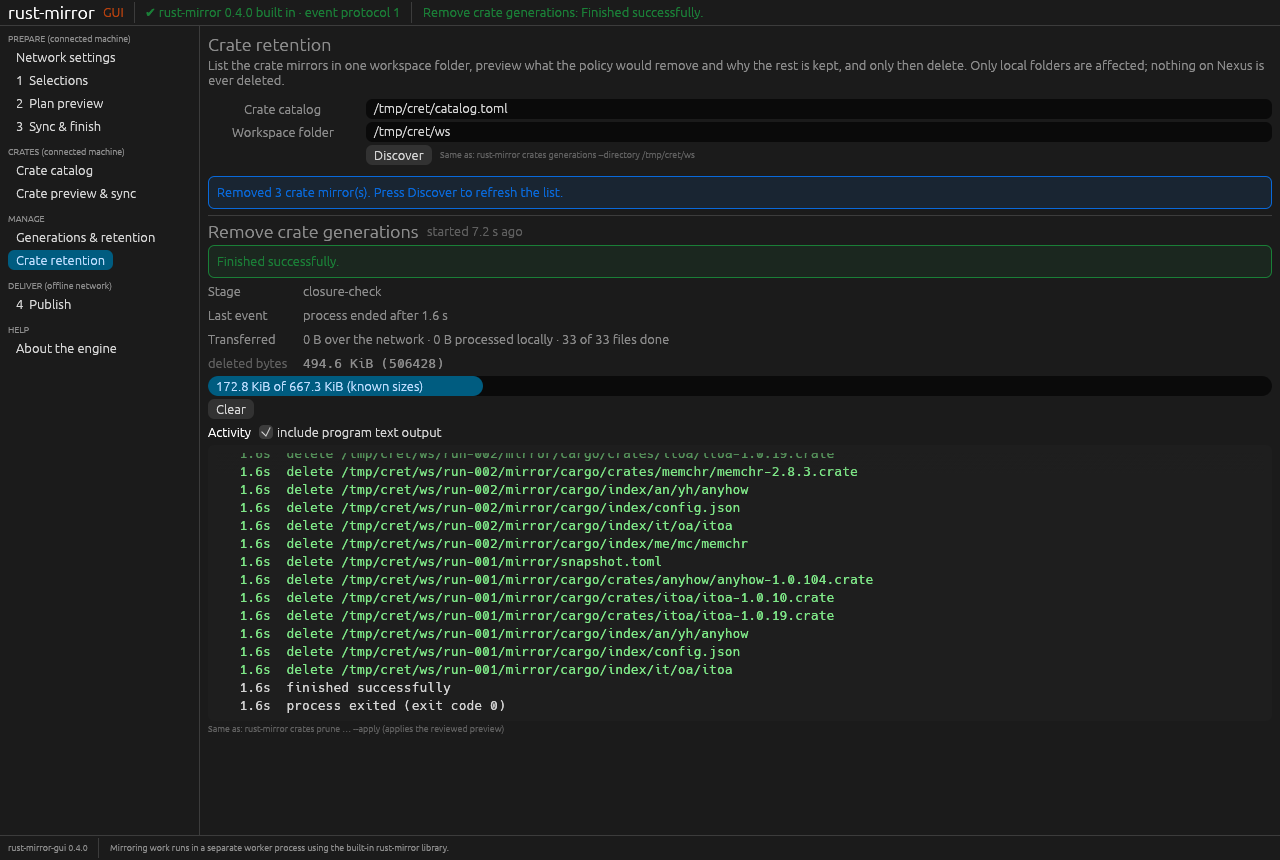
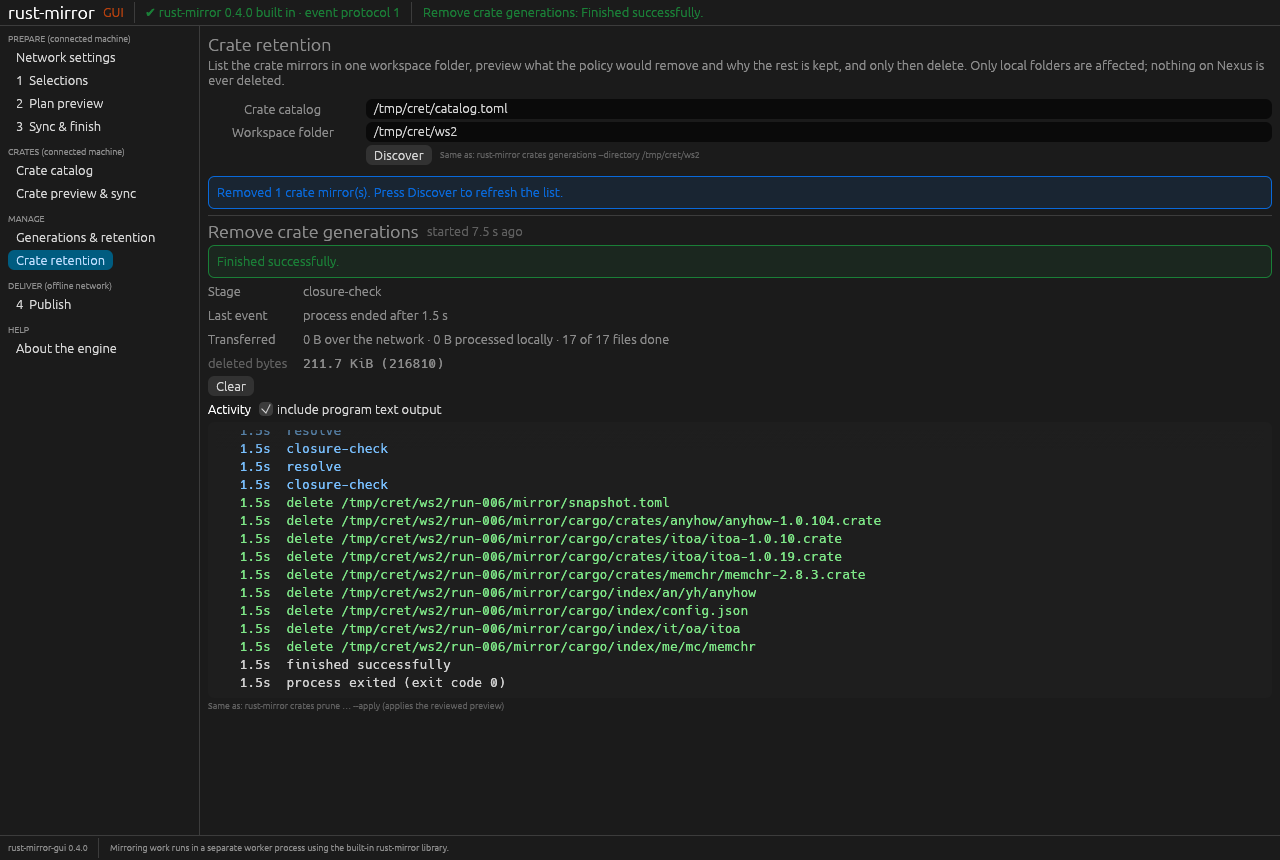
Crate retention: drop next-previous and pins that are not in the folder just listed; retake the delete screenshot

Changed region(s): [[0.1562, 0.4233, 0.6875, 0.8767], [0.625, 0.5442, 0.6562, 0.5744]]

diff --git a/src/app/crate_retention_page.rs b/src/app/crate_retention_page.rs
@@ -61,6 +61,23 @@ impl App {
             Op::CrateDiscover => {
                 r.listing = report.map(|v| v.get("catalog").cloned().unwrap_or(v));
                 r.plan = None;
+                // Drop choices that point outside the folder just listed.
+                let paths: Vec<String> = r
+                    .listing
+                    .as_ref()
+                    .and_then(|l| l.get("generations"))
+                    .and_then(Value::as_array)
+                    .map(|g| {
+                        g.iter()
+                            .filter_map(|g| g.get("path").and_then(Value::as_str))
+                            .map(str::to_owned)
+                            .collect()
+                    })
+                    .unwrap_or_default();
+                if !paths.contains(&r.next_previous) {
+                    r.next_previous.clear();
+                }
+                r.pinned.retain(|p| paths.contains(p));
             }
             Op::CrateRetentionPreview => {
                 r.plan = report.and_then(|v| v.get("plan").cloned());
